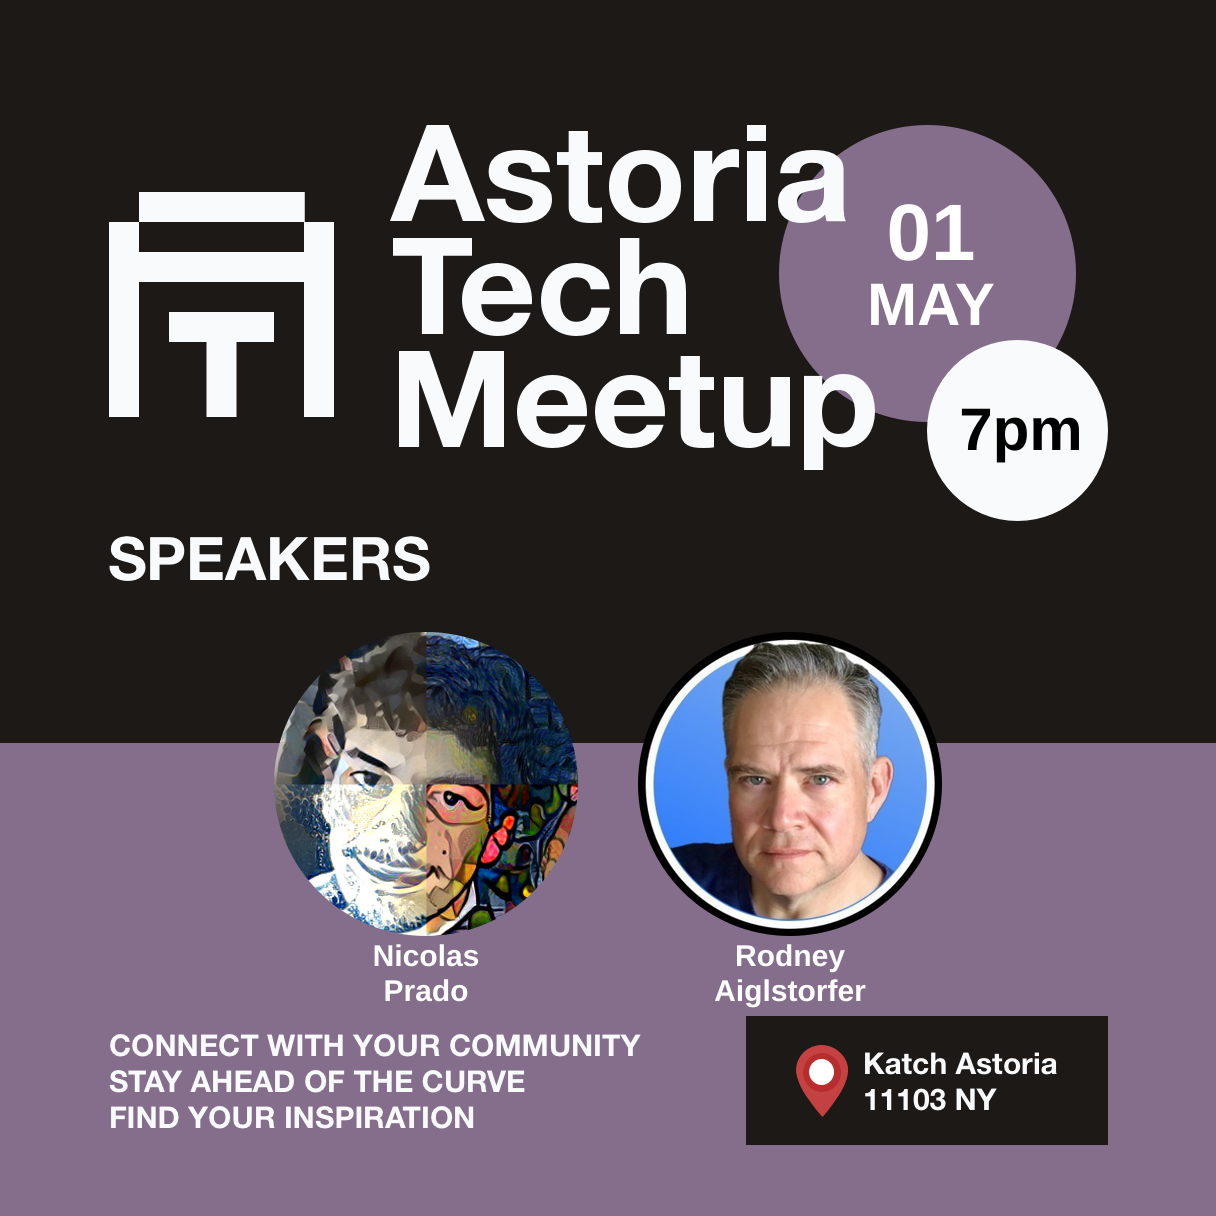
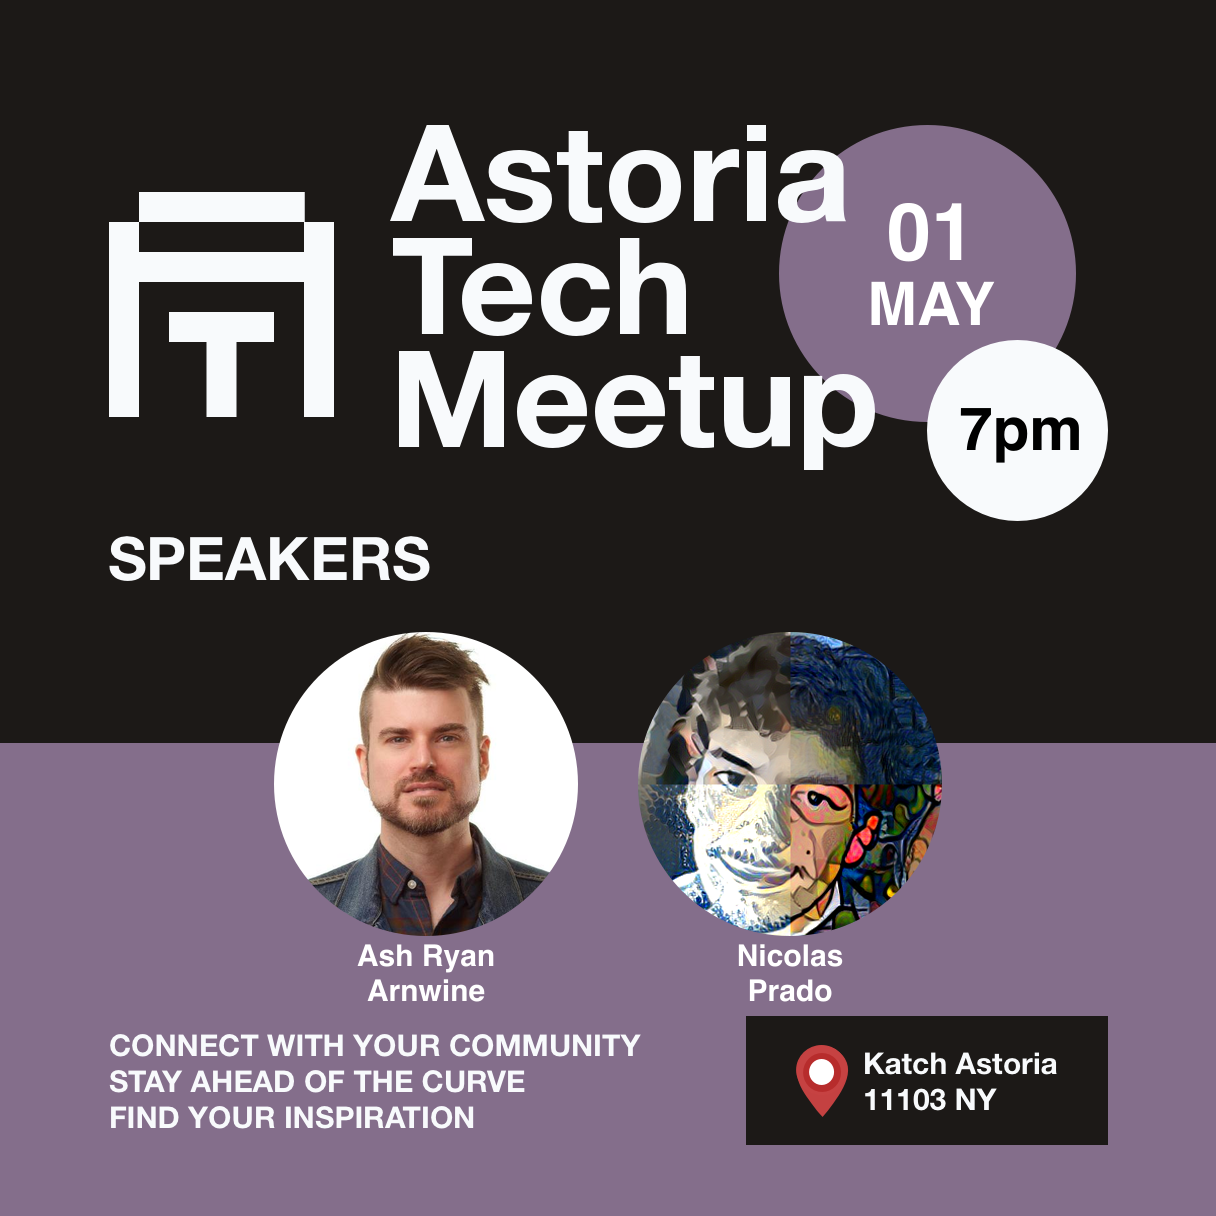
name splitting algo for images

diff --git a/packages/image-generator/index.ts b/packages/image-generator/index.ts
@@ -5,7 +5,7 @@ import {getSpeakerInfo} from './speakers'
 import {convertDateToObject} from './date'
 
 const getImageJSONSettings = async (image: string) => {
-  const file = await fs.readFile(path.join(__dirname, `./${image}/index.json`), 'utf8')
+  const file = await fs.readFile(path.join(import.meta.dirname, `./${image}/index.json`), 'utf8')
   return JSON.parse(file)
 }
 
@@ -18,8 +18,8 @@ type BuildOptions = {
 export async function build(options: BuildOptions) {
   const {image, date, contentPath, ...rest} = options
   const settings = await getImageJSONSettings(image)
-  settings.templatePath = path.join(__dirname, image, settings.templatePath)
-  settings.defaultProfilePath = path.join(__dirname, image, settings.defaultProfilePath)
+  settings.templatePath = path.join(import.meta.dirname, image, settings.templatePath)
+  settings.defaultProfilePath = path.join(import.meta.dirname, image, settings.defaultProfilePath)
   const dateObj = convertDateToObject(date)
   const speakers = await getSpeakerInfo(contentPath, date)
   const data = {
@@ -36,6 +36,6 @@ type BuildRelativeOptions = Omit<BuildOptions, 'contentPath'>
 export function buildRelative(options: BuildRelativeOptions) {
   return build({
     ...options,
-    contentPath: path.join(__dirname, '../../', './src/content'),
+    contentPath: path.join(import.meta.dirname, '../../', './src/content'),
   })
 }

diff --git a/packages/image-generator/name.ts b/packages/image-generator/name.ts
@@ -1,0 +1,30 @@
+/**
+ * this exists to create the most optimal name
+ * break for the image, because when the name is
+ * too long, it will break everything
+ */
+export const optimalName = (name: string) => {
+  const names = name.split(' ')
+  const partA = [names.shift()]
+  const partB = [names.pop()]
+  names.forEach((n, i) => {
+    const aLength = partA.join('').length
+    const bLength = partB.join('').length
+    if (aLength > bLength) {
+      partB.unshift(n)
+    } else {
+      partA.push(n)
+    }
+  })
+  return [partA.join(' '), partB.join(' ')]
+}
+
+// console.log(optimalName('Nicolas Christoher Prado'))
+// console.log(optimalName('Ash Ryan Arwine'))
+// console.log(optimalName('John C Reilly'))
+// console.log(optimalName('Michael B Jordan'))
+// console.log(optimalName('Zendaya Maree Stoermer Coleman'))
+// console.log(optimalName('Julia Mimi Bella Nehdar'))
+// console.log(optimalName('Christopher Robert Evans'))
+// console.log(optimalName('Robert John Downey Jr'))
+// console.log(optimalName('Abe B C Dolphin'))

diff --git a/packages/image-generator/core.ts b/packages/image-generator/core.ts
@@ -1,5 +1,6 @@
 import sharp from 'sharp'
 import fs from 'fs'
+import {optimalName} from './name'
 
 export interface Speaker {
   profileImage?: string
@@ -8,7 +9,7 @@ export interface Speaker {
 }
 
 // Reads and verifies the template file exists, then returns its buffer
-function readTemplateFile(templatePath: string): Buffer {
+export function readTemplateFile(templatePath: string): Buffer {
   if (!fs.existsSync(templatePath)) {
     throw new Error(`Template file does not exist at path: ${templatePath}`)
   }
@@ -18,7 +19,7 @@ function readTemplateFile(templatePath: string): Buffer {
 // Generates SVG for speaker names
 function generateSpeakerNameSvg(name: string, width: number, yOffset: number, fontSize: string): string {
   const fontColor = 'white'
-  const nameParts = name.split(' ') // Split the name into parts based on spaces
+  const nameParts = optimalName(name)
   const lineHeight = parseInt(fontSize) + 5 // Adjust the line height based on the font size
 
   // Generate the SVG for each name part on a new line

diff --git a/packages/image-generator/fetch.ts b/packages/image-generator/fetch.ts
@@ -14,7 +14,7 @@ export interface Options extends _Options {
 
 async function fetchImage(url: string, speakerName: string, clearCache: boolean): Promise<Buffer> {
   const slug = speakerName.toLowerCase().replace(/\s/g, '')
-  const speakerImagesDir = path.join(__dirname, '../..', 'public/speakers')
+  const speakerImagesDir = path.join(import.meta.dirname, '../..', 'public/speakers')
   const files = await fs.readdir(speakerImagesDir)
   const existingFile = files.find(file => file.startsWith(slug))
   if (existingFile && clearCache !== true) {
